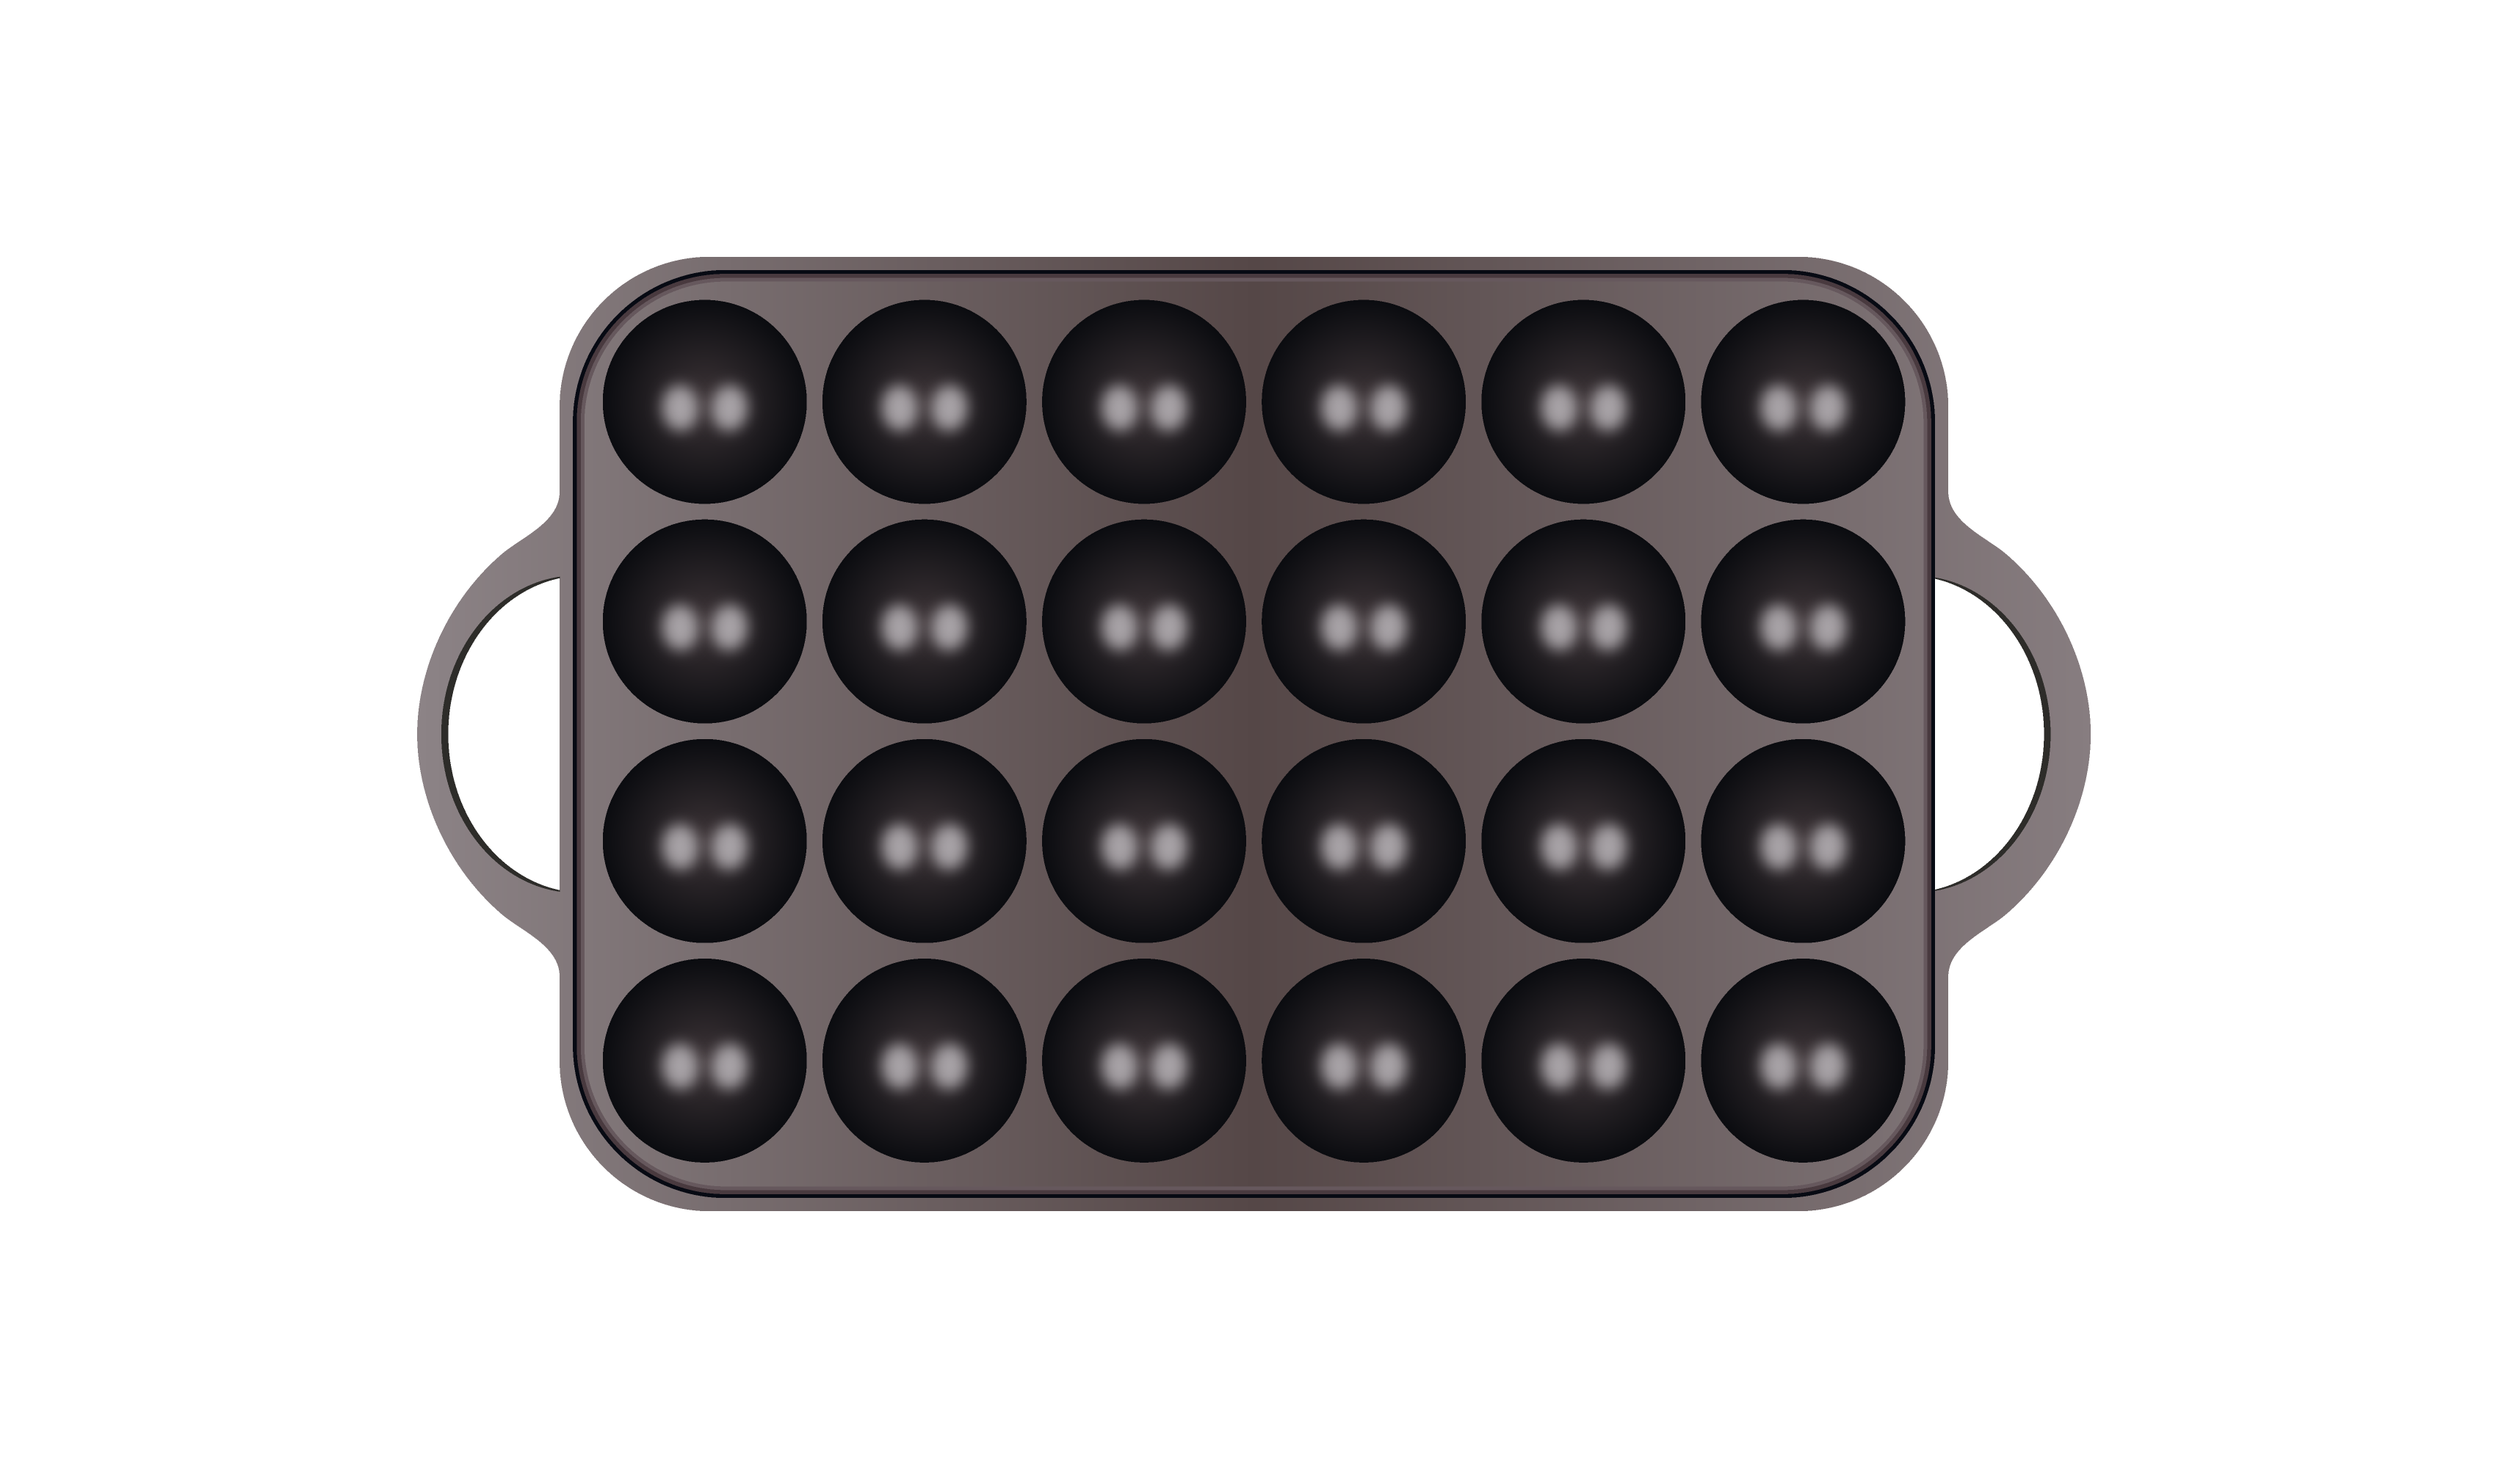
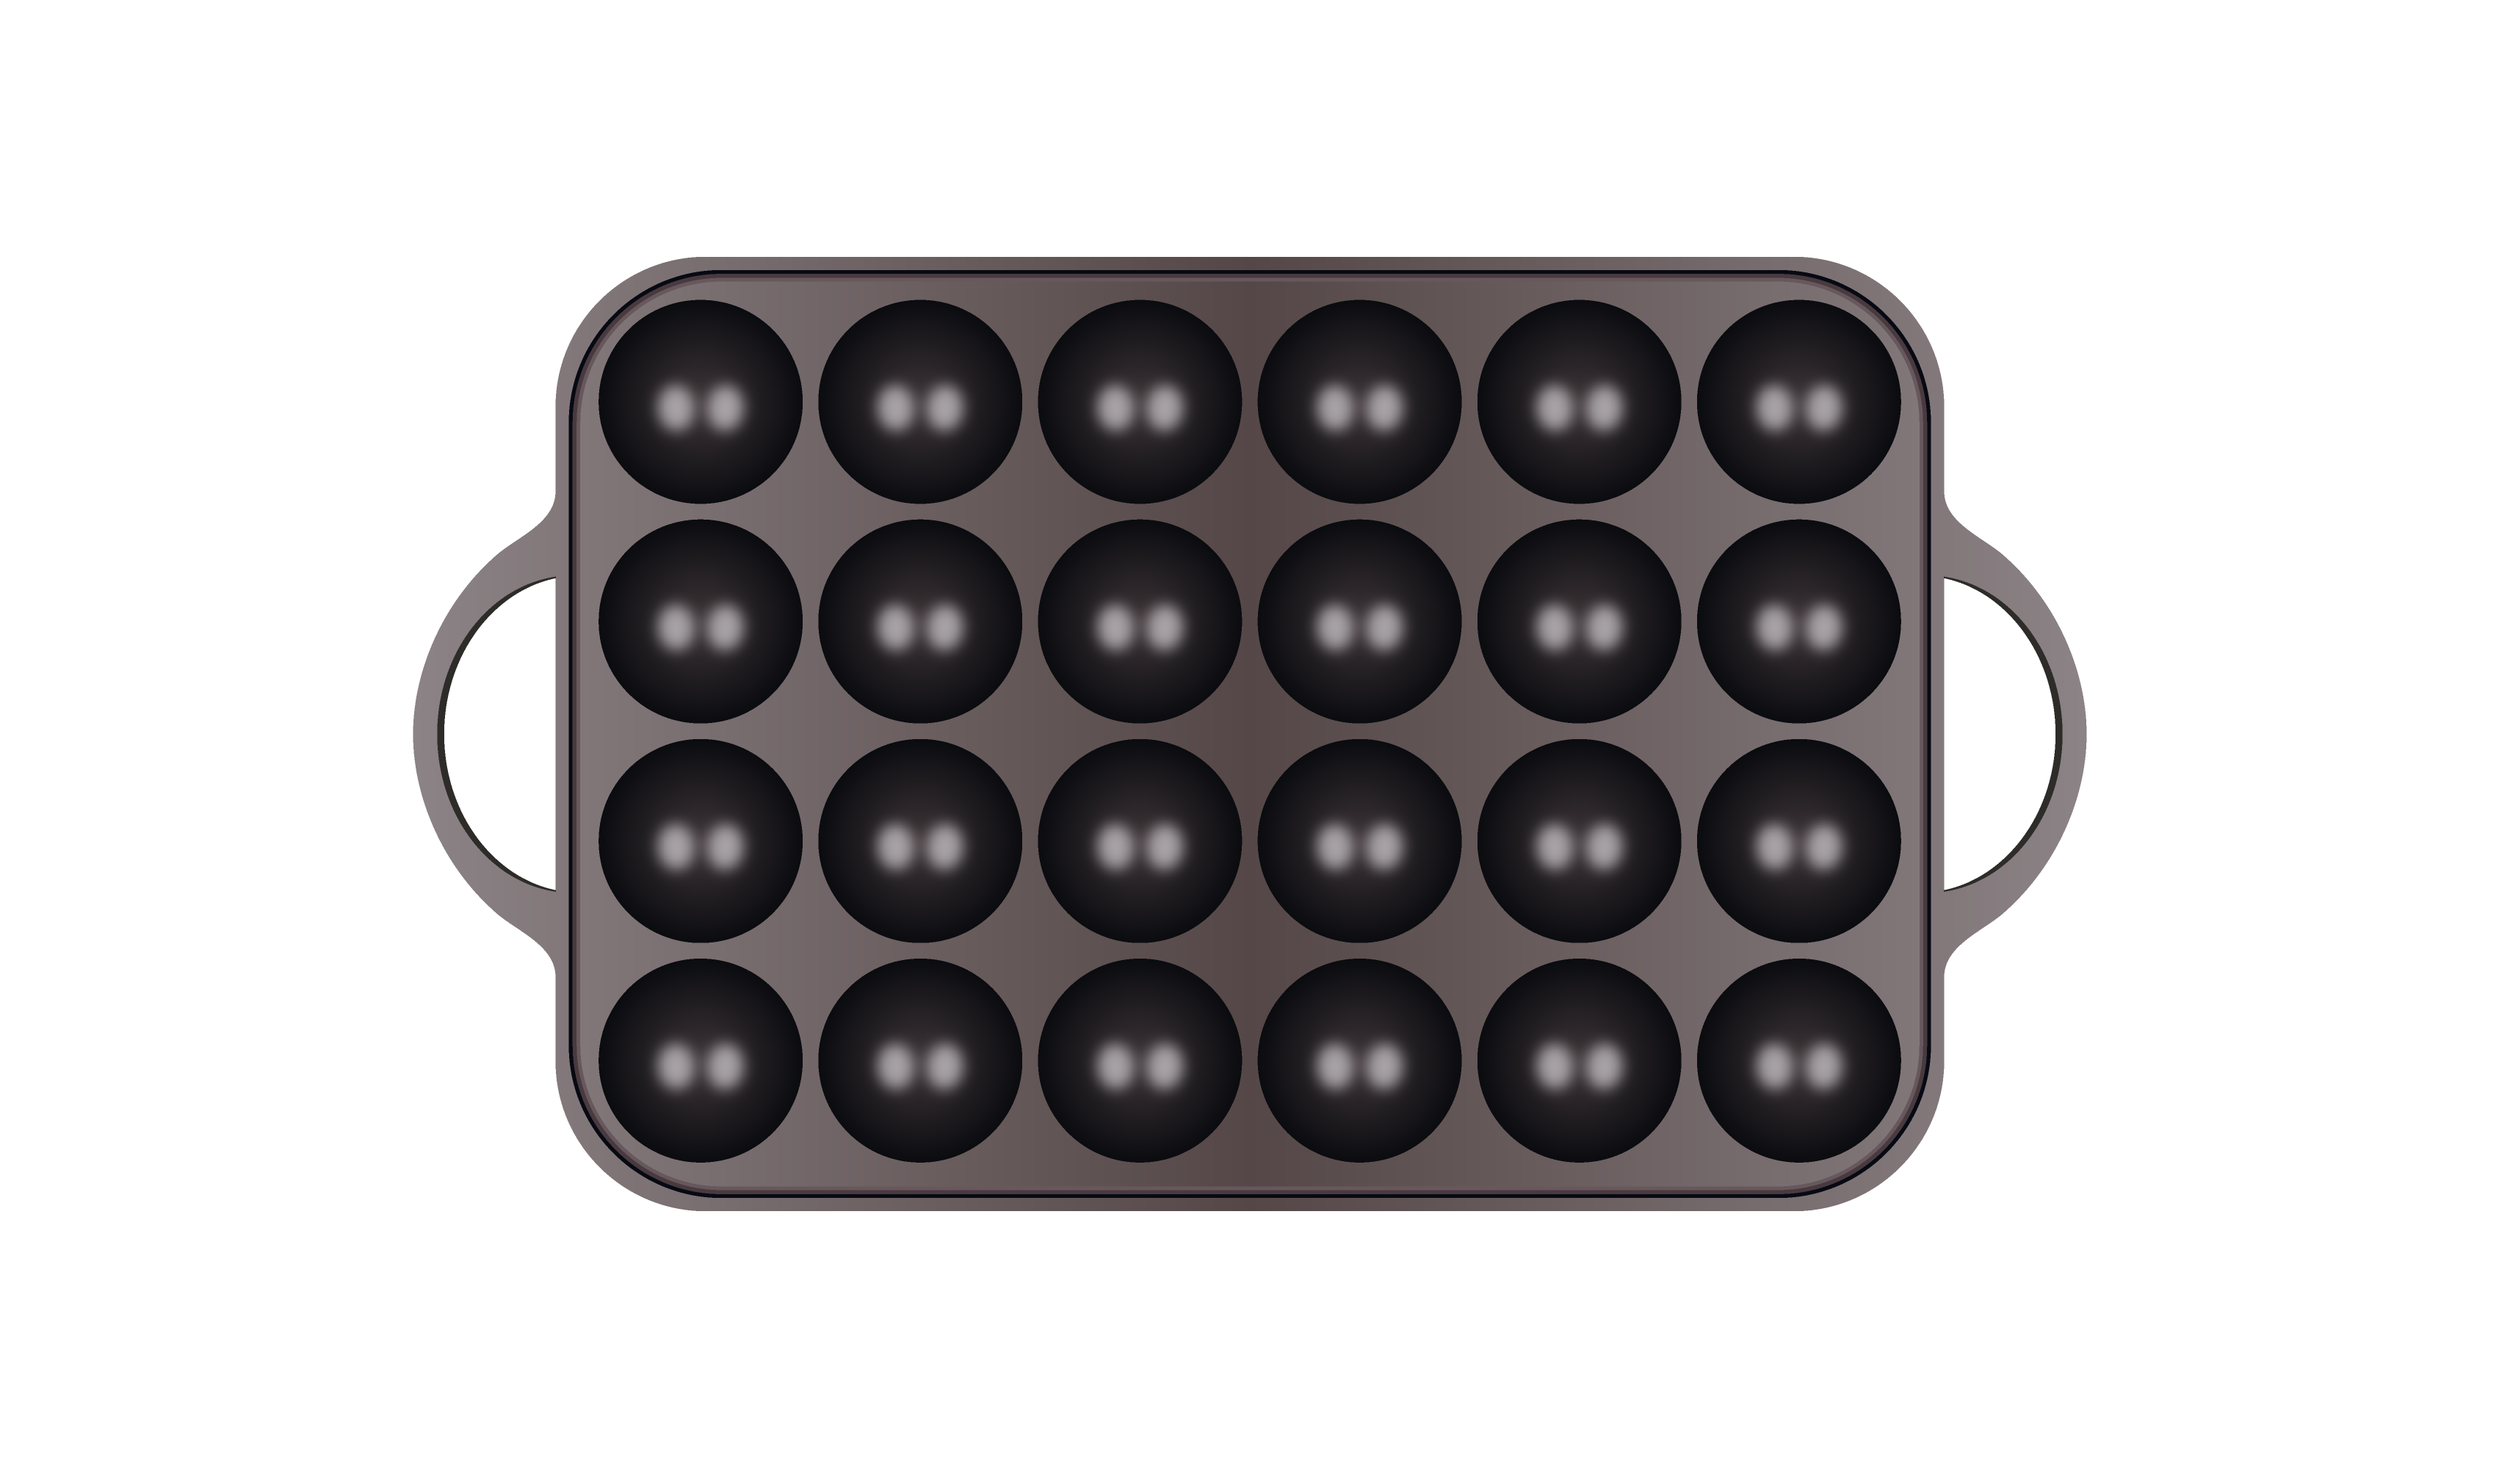
entry 3

diff --git a/entries-main/css/entry3.css b/entries-main/css/entry3.css
@@ -46,14 +46,13 @@ body {
     display: grid;
     grid-template-columns: repeat(6, 1fr);
     grid-template-rows: repeat(6, 1fr);
-    gap: 4.7px;
+    gap: 6px;
     width: 74%; 
-    max-width: 752px;
+    max-width: 753px;
     margin: 20px auto; 
     position: relative; 
     z-index: 2; 
     top: 90px;
-    left: 3px;
 }
 
 .takoyaki-grid {
